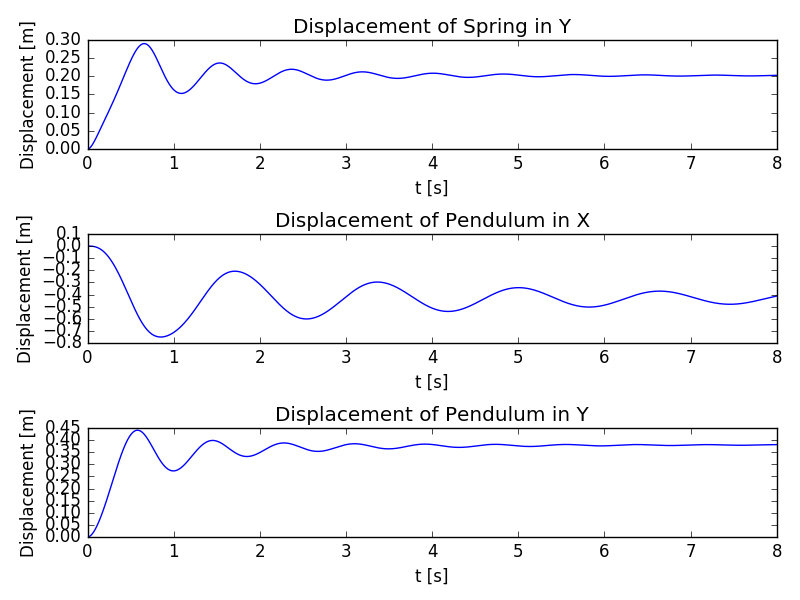
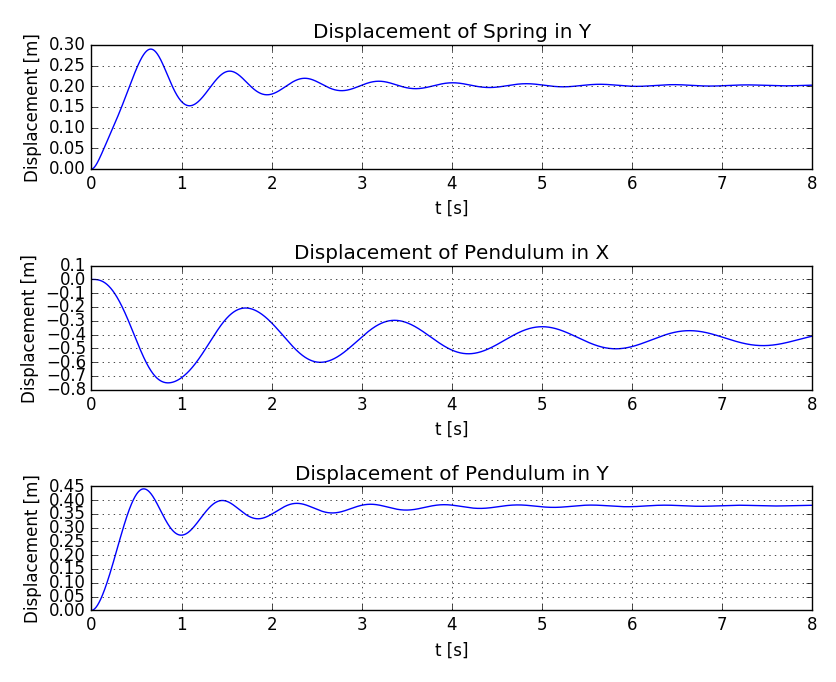
adding grid lines

diff --git a/neko.py b/neko.py
@@ -59,6 +59,7 @@ plt.plot(time, y[:,0])
 plt.xlabel('t [s]')
 plt.ylabel('Displacement [m]')
 plt.title('Displacement of Spring in Y')
+plt.grid()
 plt.legend()
 
 # plt.subplot(312)
@@ -73,6 +74,7 @@ plt.plot(time, ped_x)
 plt.xlabel('t [s]')
 plt.ylabel('Displacement [m]')
 plt.title('Displacement of Pendulum in X')
+plt.grid()
 plt.legend()
 
 plt.subplot(313)
@@ -80,6 +82,7 @@ plt.plot(time, ped_y)
 plt.xlabel('t [s]')
 plt.ylabel('Displacement [m]')
 plt.title('Displacement of Pendulum in Y')
+plt.grid()
 plt.legend()
 
 plt.tight_layout()
